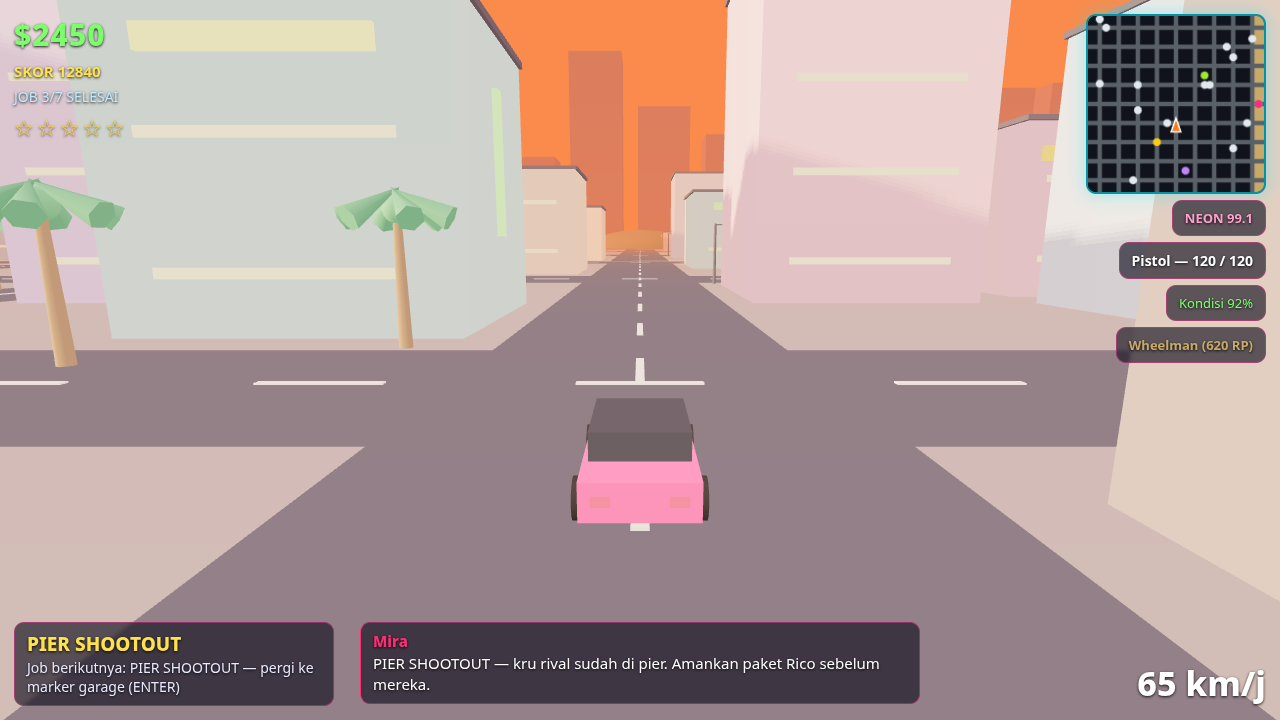
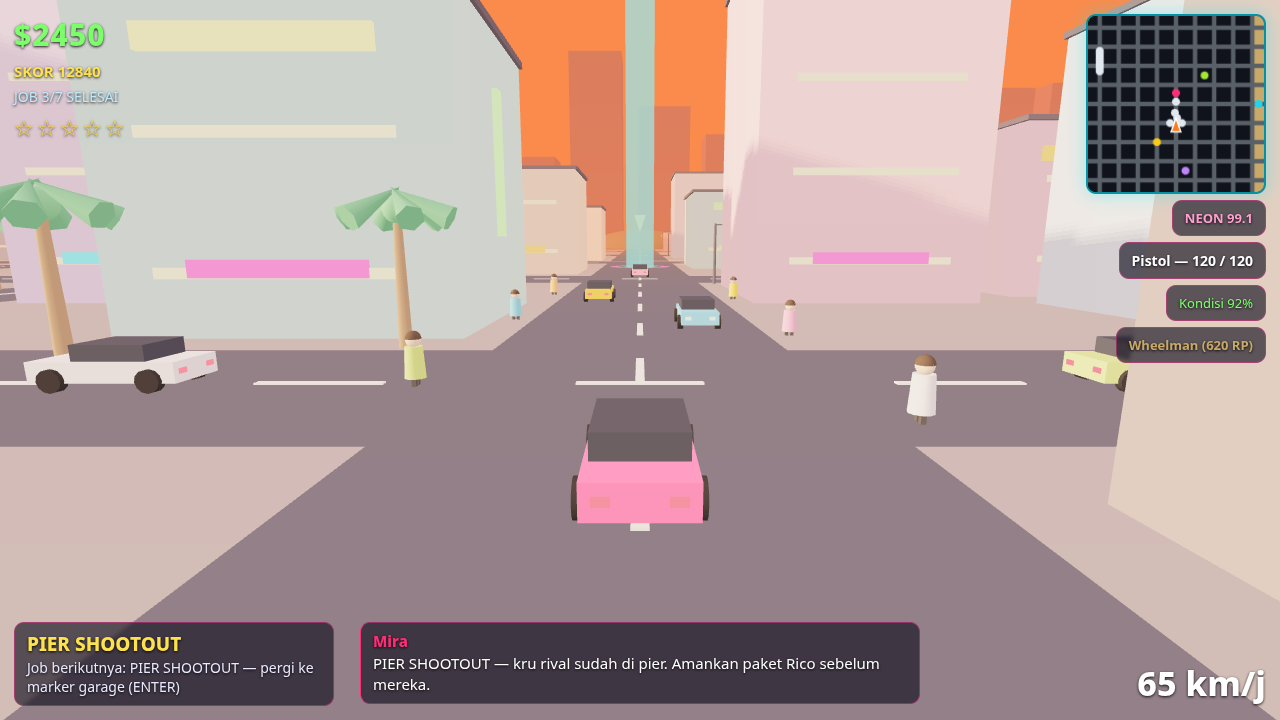
gta6-01 round 5: densify screenshots — traffic, peds, neon, beacon in frame

diff --git a/game/src/shots.js b/game/src/shots.js
@@ -2,6 +2,19 @@
 // Menerapkan state deterministik lalu MEMBEKUkan simulasi (render saja,
 // tanpa update) agar screenshot identik tiap run.
 // Preset: cover, chase, mission, drive.
+//
+// PELAJARAN RONDE 5 (diagnosis Builder 4, 22 Nov):
+// Traffic (14) + pejalan kaki (22) spawn ACAK di seluruh dunia 480x480
+// lalu game DIBEKUKAN — jadi mereka tidak pernah bergerak masuk frame.
+// Hasil ukur frustum headless (?shot=cover): hanya 1 traffic dalam 80 m
+// dan 0 pejalan kaki dalam 40 m; sisanya 140-325 m (titik tak terlihat
+// di kabut). Beacon cover 236 m di LUAR frame; heli chase 97 m di tepi
+// atas frame; beacon mission di frame tapi opacity 0,22 ~ tak terlihat.
+// Maka tiap preset kini MENEMPATKAN SECARA DETERMINISTIK traffic +
+// pejalan kaki di dalam frustum kamera (10-70 m di depan pemain),
+// dan sisa entity diparkir jauh di barat-daya agar frame deterministik.
+// Posisi dipilih di atas jalan/trotoar grid (ROAD_POS) — bukan di dalam
+// gedung — dan dicek tidak bertabrakan satu sama lain (>= 5 m).
 
 export const SHOT_PRESETS = ['cover', 'chase', 'mission', 'drive'];
 
@@ -10,6 +23,47 @@ export function shotFromUrl() {
     const q = new URLSearchParams(window.location.search);
     return q.get('shot');
   } catch (err) { return null; }
+}
+
+const TRAFFIC_COLORS = ['#f59e0b', '#38bdf8', '#a3e635', '#e2e8f0', '#f472b6', '#94a3b8'];
+const PED_COLORS = ['#f472b6', '#38bdf8', '#facc15', '#a3e635', '#e2e8f0', '#fb923c'];
+
+// spec traffic: { x, z, heading, speed?, color?, model? }
+// heading: 0 = selatan (+z), PI/2 = timur (+x), PI = utara (-z), -PI/2 = barat.
+// Entity di luar daftar diparkir di jalan x=-208 (barat-daya, di luar
+// frustum semua preset) supaya tidak muncul acak di frame.
+function stageTraffic(e, specs) {
+  for (let i = 0; i < e.traffic.length; i++) {
+    const t = e.traffic[i];
+    const s = specs[i];
+    if (s) {
+      t.x = s.x; t.z = s.z; t.heading = s.heading;
+      t.speed = s.speed ?? 0; t.road = null; t.t = 0; t.dir = 1;
+      t.color = s.color || TRAFFIC_COLORS[i % TRAFFIC_COLORS.length];
+      if (s.model) t.model = s.model;
+    } else {
+      t.x = -208; t.z = -180 + i * 7; t.heading = 0; t.speed = 0; t.road = null;
+    }
+  }
+}
+
+// spec ped: { x, z, heading? } — pejalan kaki berdiri di trotoar
+// (x = +/-7 dari as jalan = tepi trotoar, di luar footprint gedung
+// yang mulai di |x| >= 8) atau menyeberang di persimpangan.
+// Sisa pejalan kaki diparkir jauh di blok barat-daya.
+function stagePeds(e, specs) {
+  for (let i = 0; i < e.peds.length; i++) {
+    const pd = e.peds[i];
+    const s = specs[i];
+    if (s) {
+      pd.x = s.x; pd.z = s.z; pd.heading = s.heading ?? 0;
+      pd.speed = 0; pd.fleeing = false;
+      pd.color = s.color || PED_COLORS[i % PED_COLORS.length];
+    } else {
+      pd.x = -180 + (i % 5) * 8; pd.z = -180 + Math.floor(i / 5) * 8;
+      pd.heading = 0; pd.speed = 0; pd.fleeing = false;
+    }
+  }
 }
 
 // game = objek Game dari main.js (state, entities, missions, heat, dialog, radio...).
@@ -33,7 +87,11 @@ export function applyShotPreset(name, game) {
   e.clearPolice();
 
   if (name === 'cover') {
-    // Vista golden-hour: mobil pemain di Strip, beacon misi di depan.
+    // Vista Strip menghadap UTARA di jalan x=0: mobil pemain di (0,60),
+    // kamera di (0,4.5,71) melihat ke -z. Di depan: persimpangan z=52
+    // (lalu lintas menyeberang), jalan lurus ke titik lenyap di z=-30
+    // tempat beacon misi berdiri, gedung Strip + neon di kedua sisi,
+    // skyline utara di kejauhan. 4 traffic + 6 pejalan kaki di frame.
     p.inCar = true;
     p.car = e.playerCar;
     e.playerCar.x = 0; e.playerCar.z = 60; e.playerCar.heading = Math.PI;
@@ -42,12 +100,29 @@ export function applyShotPreset(name, game) {
     game.heat.clear();
     game.dialog.show('Mira', 'PIER SHOOTOUT — kru rival sudah di pier. Amankan paket Rico sebelum mereka.', 30);
     game.missions.active = null; game.missions.started = false;
-    game.beacon = { x: spawns.pier.x, z: spawns.pier.z, visible: true };
+    // Beacon 90 m di depan di tengah jalan (titik lenyap) — dulu di pier
+    // (225,0), 236 m dan DI LUAR frame (ndcX 3,15).
+    game.beacon = { x: 0, z: -30, visible: true };
+    stageTraffic(e, [
+      { x: 3, z: 38, heading: 0, speed: 12, color: '#38bdf8' },          // lawan arah, 22 m, tampak depan
+      { x: -3, z: 24, heading: Math.PI, speed: 10, color: '#f59e0b' },  // searah, 36 m, tampak belakang
+      { x: 16, z: 52, heading: Math.PI / 2, speed: 11, color: '#a3e635' }, // menyeberang kanan di z=52
+      { x: -16, z: 52, heading: -Math.PI / 2, speed: 11, color: '#e2e8f0' }, // menyeberang kiri di z=52
+      { x: 0, z: -6, heading: Math.PI, speed: 9, color: '#f472b6' },    // jauh di ujung jalan, 66 m
+    ]);
+    stagePeds(e, [
+      { x: 7, z: 42, heading: 0 },
+      { x: -7, z: 36, heading: Math.PI },
+      { x: 7, z: 24, heading: 0 },
+      { x: -7, z: 52, heading: Math.PI / 2 },   // menyeberang di persimpangan
+      { x: 7, z: 56, heading: -Math.PI / 2 },   // menyeberang di persimpangan
+      { x: -7, z: 20, heading: Math.PI },
+    ]);
   } else if (name === 'chase') {
     // Wanted 4 di jalan lurus z=0 (arah timur): mobil pemain + 2 cruiser
-    // sejajar di depan (kiri-kanan, masuk frame) + heli jauh di depan.
-    // (Posisi lama (10,20) ada DI DALAM gedung Strip — kamera menabrak
-    // dinding dan mobil tidak terlihat.)
+    // sejajar di depan (kiri-kanan, masuk frame) + heli LEBIH DEKAT &
+    // LEBIH RENDAH (dulu (60,-20) alt 34: 97 m, ndcY 0,96 — setengah
+    // terpotong tepi atas) + 2 traffic + 3 pejalan kaki di trotoar.
     p.inCar = true;
     p.car = e.playerCar;
     e.playerCar.x = -20; e.playerCar.z = -2; e.playerCar.heading = Math.PI / 2;
@@ -55,21 +130,33 @@ export function applyShotPreset(name, game) {
     p.x = -20; p.z = -2; p.heading = Math.PI / 2;
     game.heat.setStars(4);
     e.spawnPolice(2);
-    e.police[0].x = -6; e.police[0].z = 3; e.police[0].heading = Math.PI / 2; e.police[0].speed = 26;
-    if (e.police[1]) { e.police[1].x = 0; e.police[1].z = -4; e.police[1].heading = Math.PI / 2; e.police[1].speed = 28; }
-    e.heli.visible = true; e.heli.x = 60; e.heli.z = -20;
+    e.police[0].x = -4; e.police[0].z = 3.5; e.police[0].heading = Math.PI / 2; e.police[0].speed = 26;
+    if (e.police[1]) { e.police[1].x = 4; e.police[1].z = -4.5; e.police[1].heading = Math.PI / 2; e.police[1].speed = 28; }
+    e.heli.visible = true; e.heli.x = 30; e.heli.z = 0; e.heli.alt = 18; // di atas jalan z=0 (bukan di atas gedung), 61 m di depan
     game.dialog.show('NBPD', 'Semua unit, tersangka mengarah ke Strip. Kejar dengan hati-hati.', 30);
     game.beacon = { x: 0, z: 0, visible: false };
+    stageTraffic(e, [
+      { x: 16, z: 3, heading: Math.PI / 2, speed: 14, color: '#f59e0b' },   // kabur ke timur, 36 m
+      { x: 52, z: -3, heading: -Math.PI / 2, speed: 12, color: '#38bdf8' }, // lawan arah di persimpangan x=52, 72 m
+    ]);
+    stagePeds(e, [
+      { x: 8, z: 7, heading: 0 },
+      { x: 14, z: -7, heading: Math.PI },
+      { x: -10, z: 7, heading: Math.PI / 2 },
+    ]);
   } else if (name === 'mission') {
     // Pickup di pier: pemain jalan kaki menghadap TIMUR menyusuri pier —
-    // beacon (pilar cyan) 10 m di depan, mobil pink di kanan, laut di ujung.
+    // beacon (pilar cyan, opacity ~0,6 setelah perbaikan beacon.js)
+    // 10 m di depan, mobil pink di dek pier, 3 pejalan kaki di pier,
+    // lampu pier + laut di kedua sisi.
     // z = +5 (sisi selatan pier): lampu pier di z=-4,5 dan palem di z≈0
     // tidak lagi tepat di garis kamera — di z=-5 tiang lampu menutupi pemain.
     e.exitCar?.();
     p.inCar = false; p.car = null;
     p.x = spawns.pier.x - 10; p.z = spawns.pier.z + 5; p.heading = Math.PI / 2;
     p.hp = 100;
-    e.playerCar.x = spawns.pier.x + 12; e.playerCar.z = spawns.pier.z + 8;
+    e.playerCar.x = spawns.pier.x + 4; e.playerCar.z = spawns.pier.z + 4.5;
+    e.playerCar.heading = Math.PI / 2; // 21 m di depan-kanan kamera, di luar bayang pilar beacon
     game.heat.clear();
     game.dialog.show('Mira', 'Paket Rico ada di ujung pier. Ambil, jangan sampai jatuh ke laut.', 30);
     game.missions.completed = 0;
@@ -78,16 +165,39 @@ export function applyShotPreset(name, game) {
     game.missions.started = true;
     game.missions.timer = 132;
     game.beacon = { x: spawns.pier.x, z: spawns.pier.z, visible: true };
+    stageTraffic(e, []); // tidak ada mobil di pier — semua diparkir jauh
+    stagePeds(e, [
+      { x: 222, z: -3, heading: -Math.PI / 2 }, // di dek pier, dekat beacon
+      { x: 230, z: 3, heading: Math.PI },       // di ujung pier, melewati beacon
+      { x: 218, z: -4, heading: Math.PI / 2 },  // di dek pier, kiri pemain
+    ]);
   } else if (name === 'drive') {
-    // Cruising di Strip: lalu lintas, pejalan kaki, neon, minimap, pill radio.
+    // BERBEDA dari cover: beachfront, bukan Strip. Mobil melaju UTARA di
+    // jalan pantai x=208 (z=40): laut + pasir + palem di kanan (timur),
+    // gedung beach di kiri, pier + beacon menyeberang di depan (z=0),
+    // 3 traffic + 4 pejalan kaki pantai di frame.
     p.inCar = true;
     p.car = e.playerCar;
-    e.playerCar.x = -20; e.playerCar.z = 0; e.playerCar.heading = Math.PI / 2;
-    e.playerCar.speed = 22; e.playerCar.condition = 100;
-    p.x = -20; p.z = 0; p.heading = Math.PI / 2;
+    e.playerCar.x = 208; e.playerCar.z = 40; e.playerCar.heading = Math.PI;
+    e.playerCar.speed = 25; e.playerCar.condition = 100;
+    p.x = 208; p.z = 40; p.heading = Math.PI;
     game.heat.clear();
     game.dialog.hide();
-    game.beacon = { x: spawns.arcade.x, z: spawns.arcade.z, visible: true };
+    // Beacon pier 47 m di depan-kanan — dulu di arcade (26,182), 190 m
+    // dan di luar frame (ndcX 3,17).
+    game.beacon = { x: spawns.pier.x, z: spawns.pier.z, visible: true };
+    stageTraffic(e, [
+      { x: 208, z: 16, heading: Math.PI, speed: 14, color: '#f59e0b' },       // searah, 24 m
+      { x: 205, z: -6, heading: 0, speed: 12, color: '#38bdf8' },            // lawan arah, 46 m, dekat pier
+      { x: 186, z: 0, heading: -Math.PI / 2, speed: 11, color: '#a3e635' }, // menyeberang kiri di z=0, 55 m
+      { x: 208, z: -30, heading: Math.PI, speed: 12, color: '#f472b6' },     // jauh di ujung jalan, 70 m
+    ]);
+    stagePeds(e, [
+      { x: 212, z: 26, heading: 0 },        // di pasir, kanan
+      { x: 213, z: 34, heading: Math.PI },  // di pasir dekat palem, kanan
+      { x: 203, z: 30, heading: -Math.PI / 2 }, // menyeberang dari trotoar barat
+      { x: 211, z: 8, heading: 0 },         // di pasir dekat pier, kanan
+    ]);
   }
 
   game.frozen = true;      // BEKU: loop hanya render, tanpa update.

diff --git a/game/src/beacon.js b/game/src/beacon.js
@@ -7,42 +7,44 @@ export function createBeacon(scene) {
   const group = new THREE.Group();
 
   // Pilar cahaya vertikal (silinder terbuka, transparan).
+  // Opacity ~0,55: di shot mission lama 0,22 hampir tak terlihat
+  // di langit oranye — beacon harus TERBACA dari 15-90 m.
   const pillarMat = new THREE.MeshBasicMaterial({
-    color: 0x00e5ff, transparent: true, opacity: 0.22,
+    color: 0x00e5ff, transparent: true, opacity: 0.55,
     side: THREE.DoubleSide, depthWrite: false
   });
   const pillar = new THREE.Mesh(
-    new THREE.CylinderGeometry(1.4, 1.4, 60, 16, 1, true),
+    new THREE.CylinderGeometry(2.2, 2.2, 60, 16, 1, true),
     pillarMat
   );
   pillar.position.y = 30;
   group.add(pillar);
 
-  // Cincin di tanah.
+  // Cincin di tanah — lebih besar supaya terbaca dari kamera chase.
   const ringMat = new THREE.MeshBasicMaterial({
-    color: 0xff2d95, transparent: true, opacity: 0.85,
+    color: 0xff2d95, transparent: true, opacity: 0.9,
     side: THREE.DoubleSide, depthWrite: false
   });
-  const ring = new THREE.Mesh(new THREE.RingGeometry(2.4, 3.2, 32), ringMat);
+  const ring = new THREE.Mesh(new THREE.RingGeometry(3.0, 4.2, 32), ringMat);
   ring.rotation.x = -Math.PI / 2;
   ring.position.y = 0.15;
   group.add(ring);
 
   // Cakram dalam.
   const discMat = new THREE.MeshBasicMaterial({
-    color: 0x00e5ff, transparent: true, opacity: 0.3,
+    color: 0x00e5ff, transparent: true, opacity: 0.55,
     side: THREE.DoubleSide, depthWrite: false
   });
-  const disc = new THREE.Mesh(new THREE.CircleGeometry(2.3, 32), discMat);
+  const disc = new THREE.Mesh(new THREE.CircleGeometry(2.9, 32), discMat);
   disc.rotation.x = -Math.PI / 2;
   disc.position.y = 0.14;
   group.add(disc);
 
-  // Panah penunjuk melayang (cone mengarah ke bawah).
+  // Panah penunjuk melayang (cone mengarah ke bawah) — lebih besar.
   const arrowMat = new THREE.MeshBasicMaterial({ color: 0xffe14d });
-  const arrow = new THREE.Mesh(new THREE.ConeGeometry(0.8, 2.0, 4), arrowMat);
+  const arrow = new THREE.Mesh(new THREE.ConeGeometry(1.1, 2.6, 4), arrowMat);
   arrow.rotation.x = Math.PI;
-  arrow.position.y = 9;
+  arrow.position.y = 8;
   group.add(arrow);
 
   group.visible = false;
@@ -58,9 +60,10 @@ export function createBeacon(scene) {
       if (!group.visible) return;
       const pulse = 1 + 0.15 * Math.sin(t * 3);
       ring.scale.set(pulse, pulse, 1);
-      ringMat.opacity = 0.6 + 0.3 * Math.sin(t * 3);
-      pillarMat.opacity = 0.16 + 0.09 * Math.sin(t * 2);
-      arrow.position.y = 9 + Math.sin(t * 2.5) * 1.2;
+      ringMat.opacity = 0.7 + 0.25 * Math.sin(t * 3);
+      // Pilar tetap terang: 0,4-0,7 (dulu 0,07-0,25 — tak terlihat).
+      pillarMat.opacity = 0.55 + 0.15 * Math.sin(t * 2);
+      arrow.position.y = 8 + Math.sin(t * 2.5) * 1.2;
       arrow.rotation.y = t * 1.5;
     }
   };

diff --git a/game/src/world.js b/game/src/world.js
@@ -120,6 +120,28 @@ function addBuilding(scene, rng, cx, cz, w, d, h, district) {
       scene.add(vSign);
     }
   }
+  // Neon etalase di lantai dasar (y ~3,2 m) di kedua fasad: terbaca dari
+  // kamera chase yang rendah. Neon lama di h*0,82 jatuh DI ATAS frame
+  // untuk gedung dekat yang tinggi, sehingga jalanan tampak polos.
+  // Warna dari hash posisi (cx,cz) — TIDAK memakai rng() supaya urutan
+  // RNG kota (tinggi gedung, palem, skyline) tidak berubah.
+  if (district === 'strip' || district === 'arcade') {
+    const hsh = Math.abs(Math.sin(cx * 12.9898 + cz * 78.233) * 43758.5453) % 1;
+    const bw = Math.min(w * 0.6, 8);
+    const barS = new THREE.Mesh(
+      new THREE.BoxGeometry(bw, 0.8, 0.25),
+      new THREE.MeshBasicMaterial({ color: NEON[Math.floor(hsh * NEON.length)] })
+    );
+    barS.position.set(cx, 3.2, cz + d / 2 + 0.15);
+    scene.add(barS);
+    const hsh2 = Math.abs(Math.sin(cx * 39.346 + cz * 11.135) * 24634.6345) % 1;
+    const barN = new THREE.Mesh(
+      new THREE.BoxGeometry(bw, 0.8, 0.25),
+      new THREE.MeshBasicMaterial({ color: NEON[Math.floor(hsh2 * NEON.length)] })
+    );
+    barN.position.set(cx, 3.2, cz - d / 2 - 0.15);
+    scene.add(barN);
+  }
   // Antena di gedung tinggi Downtown.
   if (district === 'downtown' && h > 35) {
     const ant = new THREE.Mesh(new THREE.CylinderGeometry(0.15, 0.3, 8, 6), lambert(0x333333));

diff --git a/game/src/render.js b/game/src/render.js
@@ -23,6 +23,7 @@ let beacon = null;
 let clock = null;
 let heliMesh = null;
 let heliVisible = false;
+let heliAlt = 34; // ketinggian heli; preset chase menurunkannya agar masuk frame
 
 const entityMeshes = new Map(); // id -> { group, kind }
 const flashes = []; // { sprite, life }
@@ -216,11 +217,12 @@ function setBeacon(x, z, visible) {
   if (beacon) beacon.set(x, z, visible);
 }
 
-function setHeli(x, z, visible) {
+function setHeli(x, z, visible, alt) {
   heliVisible = !!visible;
+  if (typeof alt === 'number') heliAlt = alt;
   if (heliMesh) {
     heliMesh.visible = heliVisible;
-    if (heliVisible) heliMesh.position.set(x, 34, z);
+    if (heliVisible) heliMesh.position.set(x, heliAlt, z);
   }
 }
 
@@ -247,7 +249,7 @@ function render() {
 
   if (heliMesh && heliMesh.visible && heliMesh.userData.rotor) {
     heliMesh.userData.rotor.rotation.y += dt * 30;
-    heliMesh.position.y = 34 + Math.sin(t * 1.5) * 0.8; // melayang naik-turun
+    heliMesh.position.y = heliAlt + Math.sin(t * 1.5) * 0.8; // melayang naik-turun
   }
   // Rotor heli entity dari syncEntities.
   entityMeshes.forEach(function (rec) {

diff --git a/game/src/main.js b/game/src/main.js
@@ -518,7 +518,7 @@ export class Game {
       if (beacon) this.beacon = { x: beacon.x, z: beacon.z, visible: beaconVisible };
       try { Render.setBeacon(this.beacon.x, this.beacon.z, this.beacon.visible); } catch (err) {}
     }
-    try { Render.setHeli(e.heli.x, e.heli.z, e.heli.visible); } catch (err) {}
+    try { Render.setHeli(e.heli.x, e.heli.z, e.heli.visible, e.heli.alt); } catch (err) {}
     const list = [...e.toSyncList(), ...this.rivals.toSyncList()];
     try { Render.syncEntities(list); } catch (err) {}
     // Satu frame 3D: animasi + gambar scene ke canvas WebGL.

diff --git a/game/src/entities.js b/game/src/entities.js
@@ -85,7 +85,7 @@ export class Entities {
     this.traffic = [];
     this.peds = [];
     this.police = [];
-    this.heli = { x: 0, z: 0, visible: false, heading: 0 };
+    this.heli = { x: 0, z: 0, visible: false, heading: 0, alt: 34 };
     this.roadblocks = [];
     this._roadblockTimer = 0;
     this.reset();
